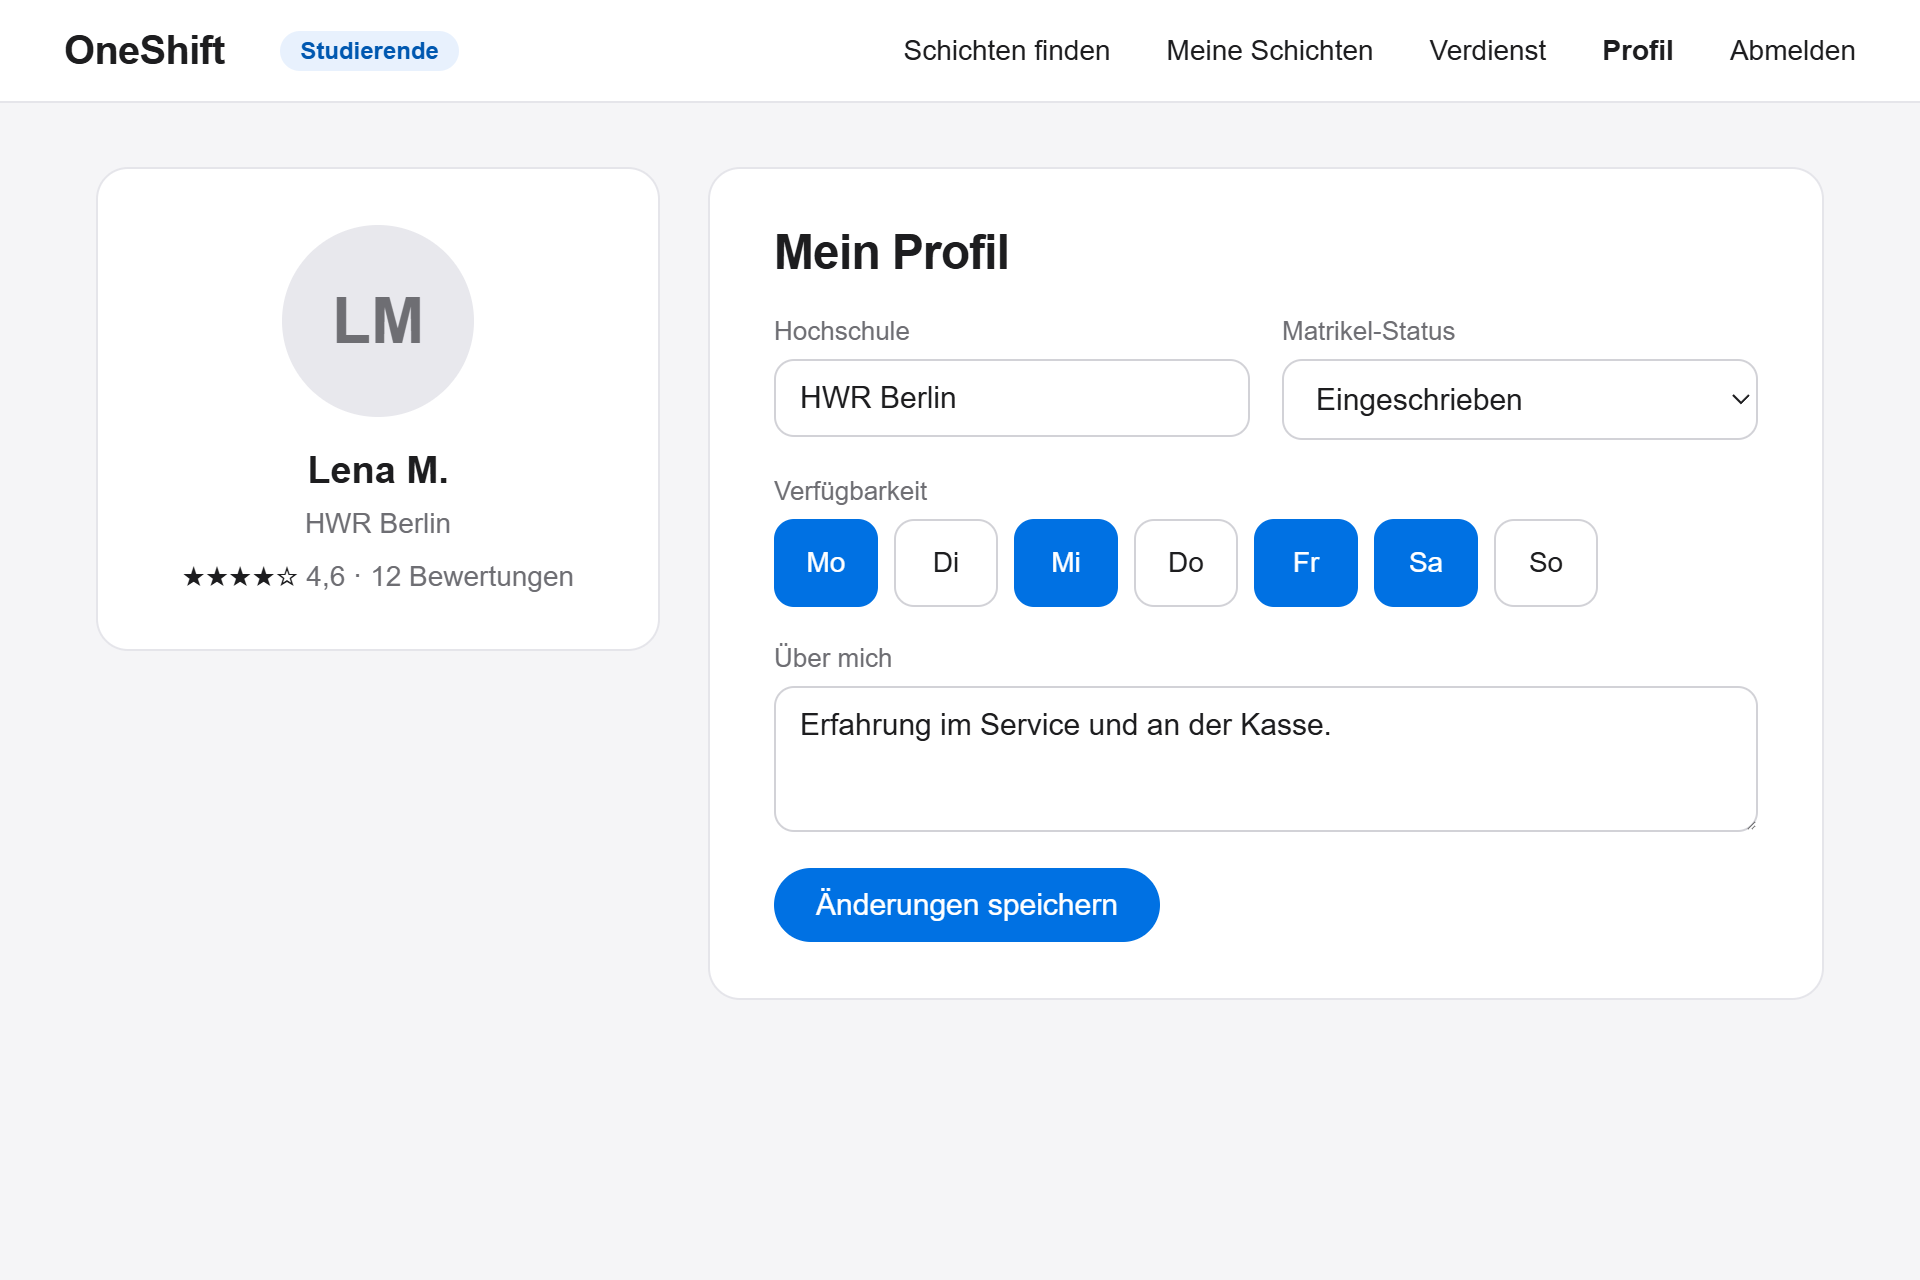
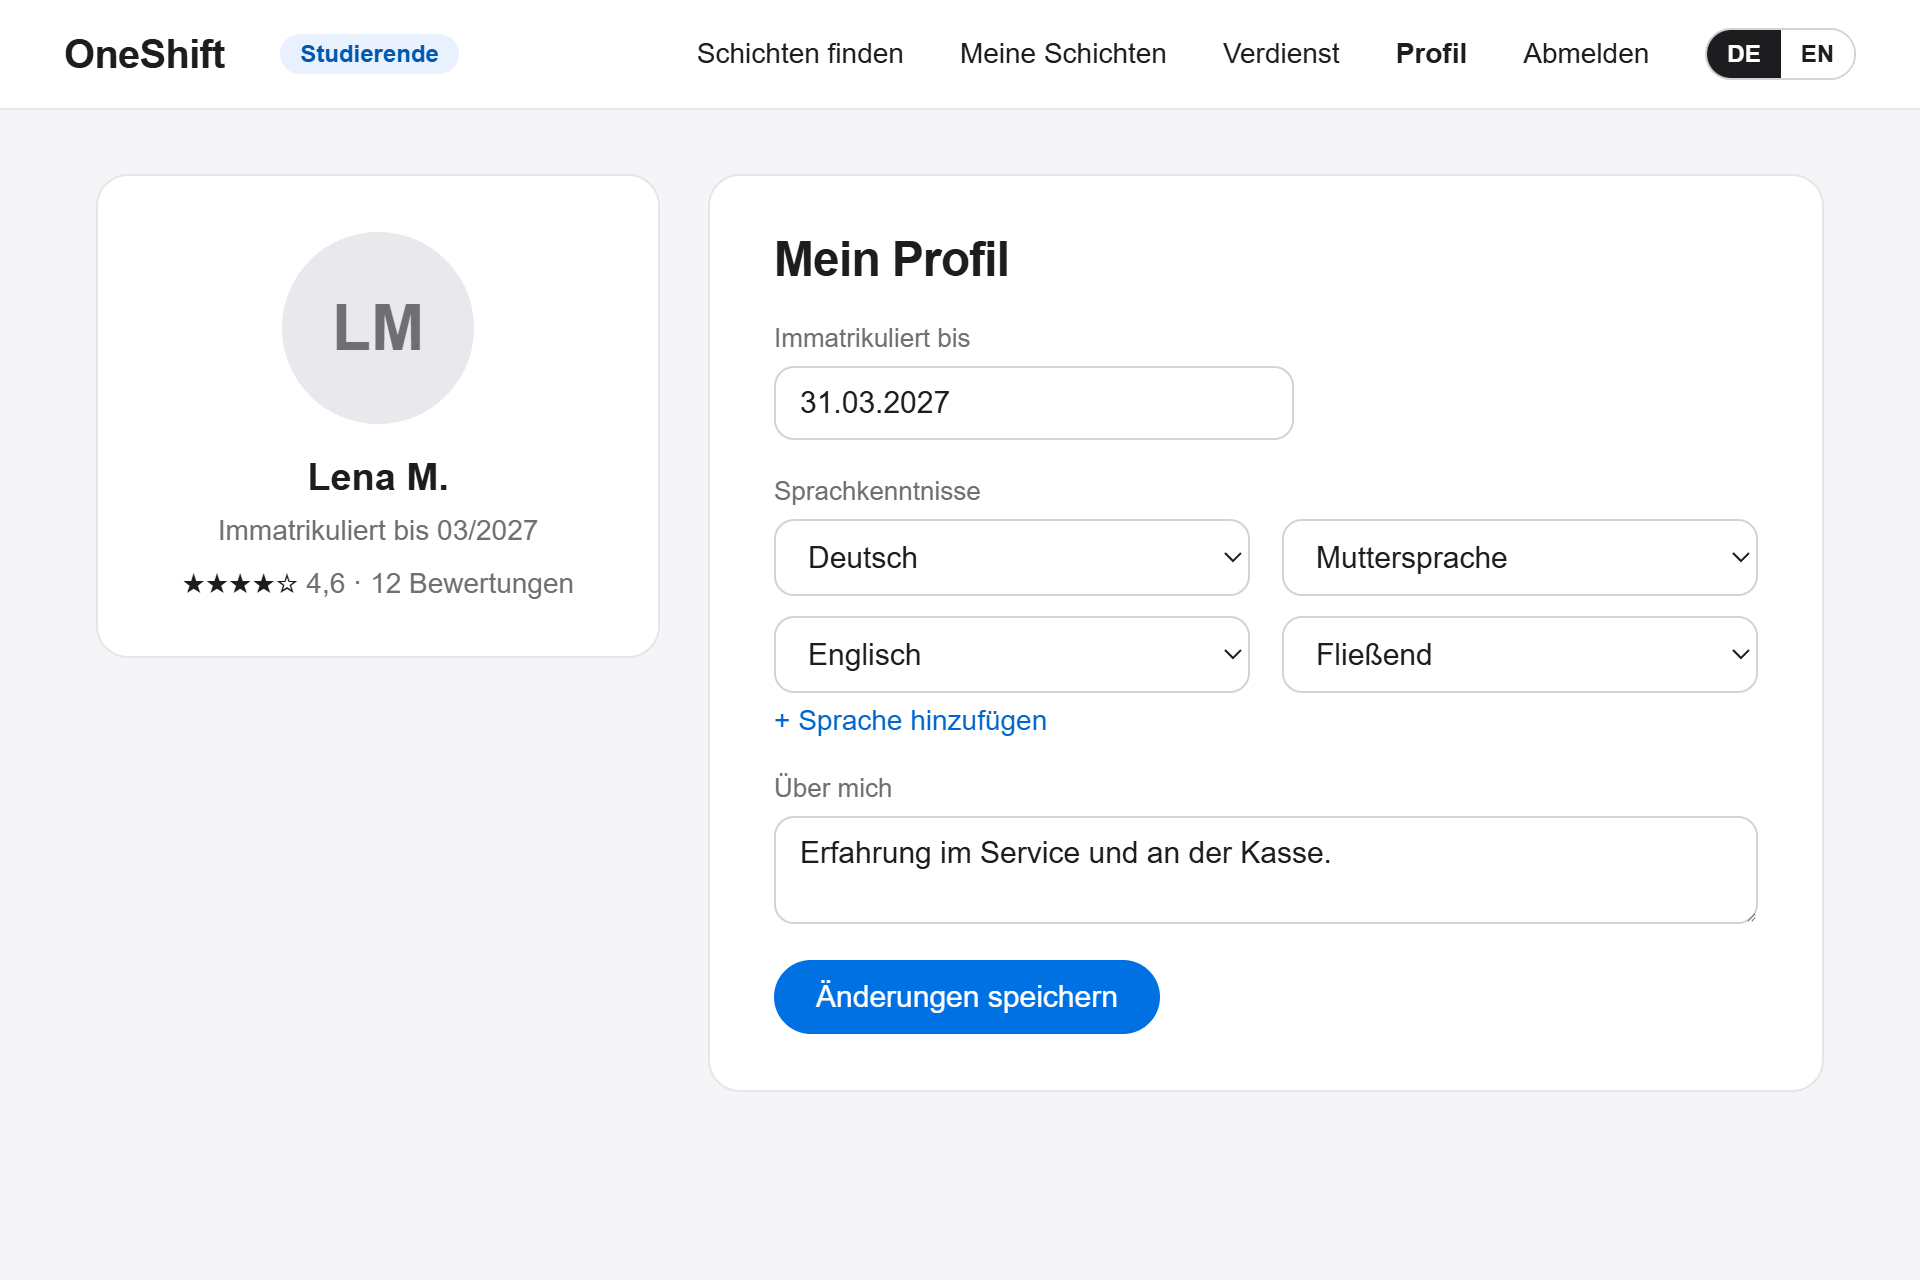
add language to UI pngs & edited personal md.

diff --git a/docs/target-scope.md b/docs/target-scope.md
@@ -18,16 +18,16 @@ Anmelden oder neues Konto erstellen. Bei der Registrierung wird die Rolle gewäh
 
 ### Profil Studierende
 
-Name, Kontaktdaten, Studierendenstatus („immatrikuliert bis“) und Sprachkenntnisse
-Keine Verfügbarkeit nach Wochentagen: Studierende sollen arbeiten, wenn sie spontan Zeit haben (siehe Value Proposition).
-Verfügbarkeit zeigt sich durch das Anfragen einer Schicht.
-Keine Hochschule:Für den Betrieb zählt nur, dass jemand eingeschrieben ist (wichtig für die Sozialversicherungsregeln bei Studierendenjobs), nicht wo.
+Name, Kontaktdaten, Studierendenstatus („Immatrikuliert bis“) und Sprachkenntnisse.
+
+- **Keine Verfügbarkeit nach Wochentagen:** Studierende sollen arbeiten, wenn sie spontan Zeit haben (siehe Value Proposition). Verfügbarkeit zeigt sich durch das Anfragen einer Schicht.
+- **Keine Hochschule:** Für den Betrieb zählt nur, dass jemand eingeschrieben ist (wichtig für die Sozialversicherungsregeln bei Studierendenjobs), nicht wo.
 
 ![Profil Studierende](<assets/A2 Profil Studierende.png>)
 
 ### Profil Unternehmen
 
-Firmenname, Adresse, Bezirk und Branche.
+Firmenname, Adresse, Bezirk, Branche und Ansprechperson. Zusätzlich ein Standard-Ort und ein Standard-Stundenlohn, die beim Erstellen einer Schicht automatisch vorausgefüllt werden.
 
 ![Profil Unternehmen](<assets/A3 Profil Unternehmen.png>)
 
@@ -38,17 +38,24 @@ Firmenname, Adresse, Bezirk und Branche.
 ### Meine Schichten
 
 Übersicht der eigenen Schichten nach Status (offen, besetzt, vergangen) mit Bearbeiten, Absagen und Anfragen.
+
 Bei vergangenen Schichten gibt es den Button „Erneut ausschreiben“: Die Schicht wird mit allen Angaben kopiert, nur das Datum muss neu gewählt werden.
 
 ![Meine Schichten Unternehmen](<assets/B1 Meine Schichten (Unternehmen).png>)
 
 ### Schicht erstellen / bearbeiten
 
-Formular mit Titel, Tätigkeit, Datum, Uhrzeit, Ort, Stundenlohn und Anzahl benötigter Personen. Eingaben werden geprüft, z. B. Mindestlohn.
-Häufige Schichten können als Vorlage gespeichert werden.
-Danach Vorlage wählen, Datum neu wählen, direkt veröffentlichen
+Formular mit Tätigkeit, Datum, Uhrzeit, Ort, Stundenlohn, Anzahl benötigter Personen und benötigter Sprache. Eingaben werden geprüft, z. B. Mindestlohn.
+
+Oben kann eine Vorlage ausgewählt werden, die das Formular vorausfüllt. Eine neue Schicht kann über „Als Vorlage speichern“ selbst zur Vorlage werden.
 
 ![Schicht erstellen](<assets/B2 Schicht erstellen bearbeiten.png>)
+
+### Schicht-Vorlagen
+
+Liste aller gespeicherten Vorlagen. Über „Ausschreiben“ wird aus einer Vorlage direkt eine neue Schicht: Vorlage wählen, Datum festlegen, veröffentlichen.
+
+![Schicht-Vorlagen](<assets/B3 Schicht-Vorlagen.png>)
 
 ---
 
@@ -57,6 +64,7 @@ Danach Vorlage wählen, Datum neu wählen, direkt veröffentlichen
 ### Schicht-Feed
 
 Liste offener Schichten mit Filtern nach Datum, Bezirk, Tätigkeit, Lohn und benötigter Sprache.
+
 Internationale Studierende sehen sofort, welche Schichten auch ohne Deutschkenntnisse möglich sind.
 
 ![Schicht-Feed](<assets/C1 Schicht-Feed mit Filtern.png>)
@@ -91,6 +99,6 @@ Nach der Schicht bestätigt das Unternehmen die geleisteten Stunden und bewertet
 
 ### Verdienstübersicht
 
-Studierende sehen ihren Gesamtverdienst, die geleisteten Stunden und alle abgeschlossenen Schichten.
+Studierende sehen ihren Verdienst getrennt nach Lohn, optionalem Trinkgeld und Gesamtbetrag, dazu die geleisteten Stunden und alle abgeschlossenen Schichten.
 
 ![Verdienstübersicht](<assets/D3 Verdienstübersicht.png>)

diff --git a/docs/contributors/hosam-khalili.md b/docs/contributors/hosam-khalili.md
@@ -17,9 +17,9 @@ Ich möchte lernen, wie man eine vollständige Webanwendung mit Flask entwickelt
 
 ### Schicht-Feed
 
-Liste aller offenen Schichten mit Titel, Betrieb, Tätigkeit, Datum, Uhrzeit, Bezirk, Stundenlohn
-Filter nach Datum, Bezirk, Tätigkeit und Mindest-Stundenlohn
-Schicht-Detailseite: alle Infos zur Schicht und zum Betrieb, Button „Schicht anfragen“
-Schicht buchen (Buchungsanfrage senden) und eigene Anfrage stornieren
-„Meine Schichten“: Übersicht nach Status angefragt / bestätigt / abgeschlossen
-Validierung: nur offene Schichten in der Zukunft anfragbar, keine doppelte Anfrage, keine zeitlich überschneidenden Schichten, Stornieren nur bis 24 h vor Schichtbeginn
+- Schicht-Feed: Liste aller offenen Schichten mit Titel, Betrieb, Tätigkeit, Datum, Uhrzeit, Bezirk,Stundenlohn
+- Filter nach Datum, Bezirk, Tätigkeit, Mindest-Stundenlohn und benötigter Sprache
+- Schicht-Detailseite: alle Infos zur Schicht und zum Betrieb, Button „Schicht anfragen“
+- Schicht buchen (Buchungsanfrage senden) und eigene Anfrage stornieren
+- „Meine Schichten“: Übersicht nach Status angefragt / bestätigt / abgeschlossen
+- Validierung: nur offene Schichten in der Zukunft anfragbar, keine doppelte Anfrage, keine zeitlich überschneidenden Schichten, Stornieren nur bis 24 h vor Schichtbeginn
